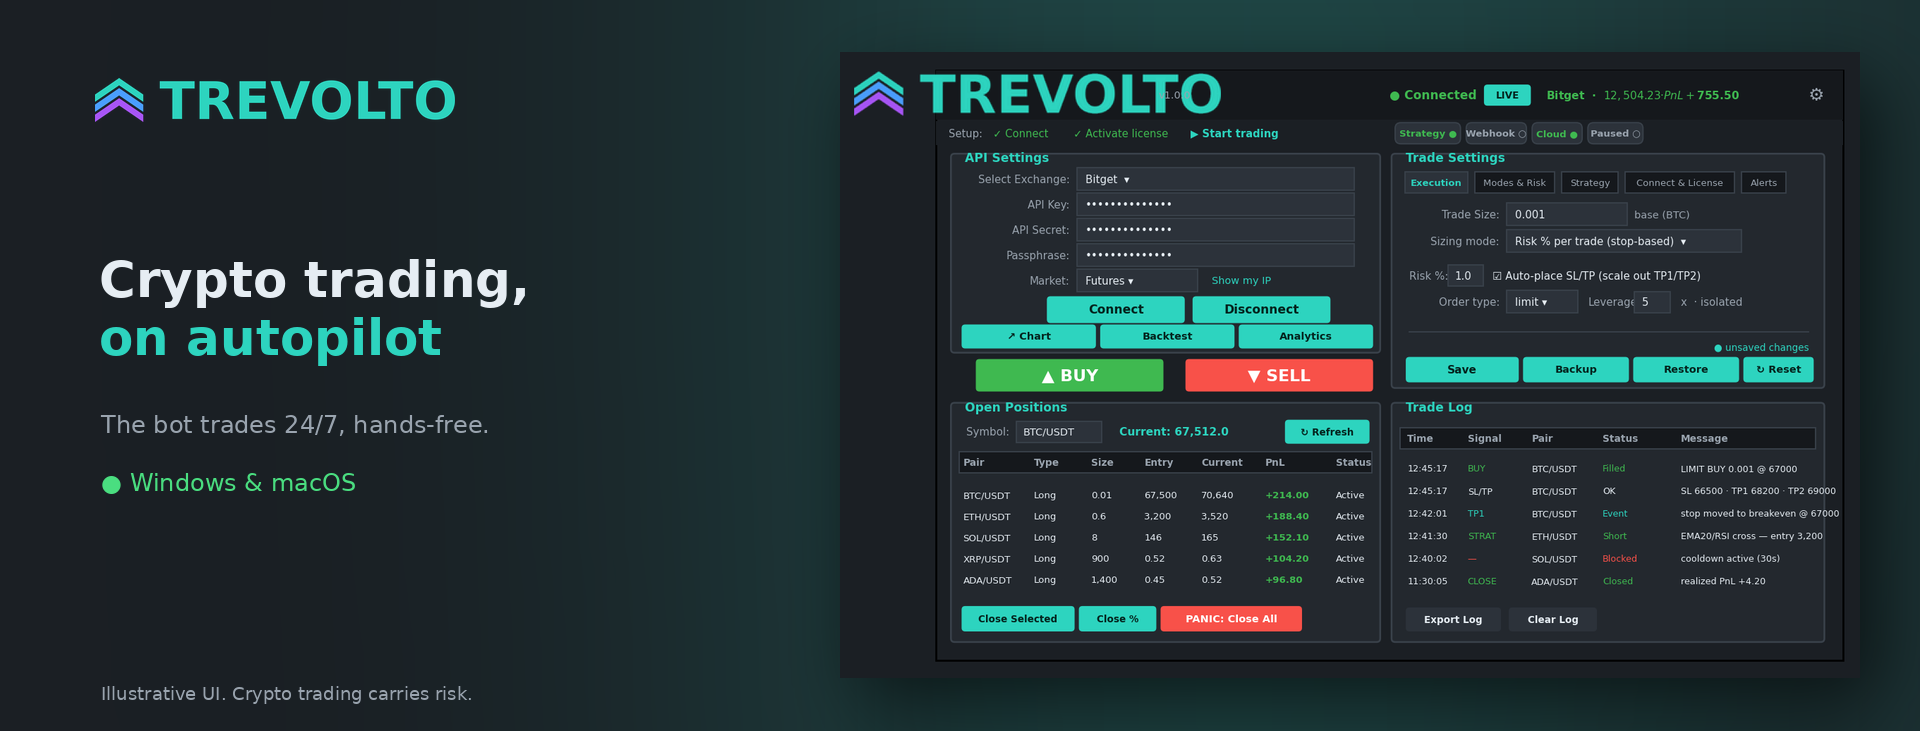
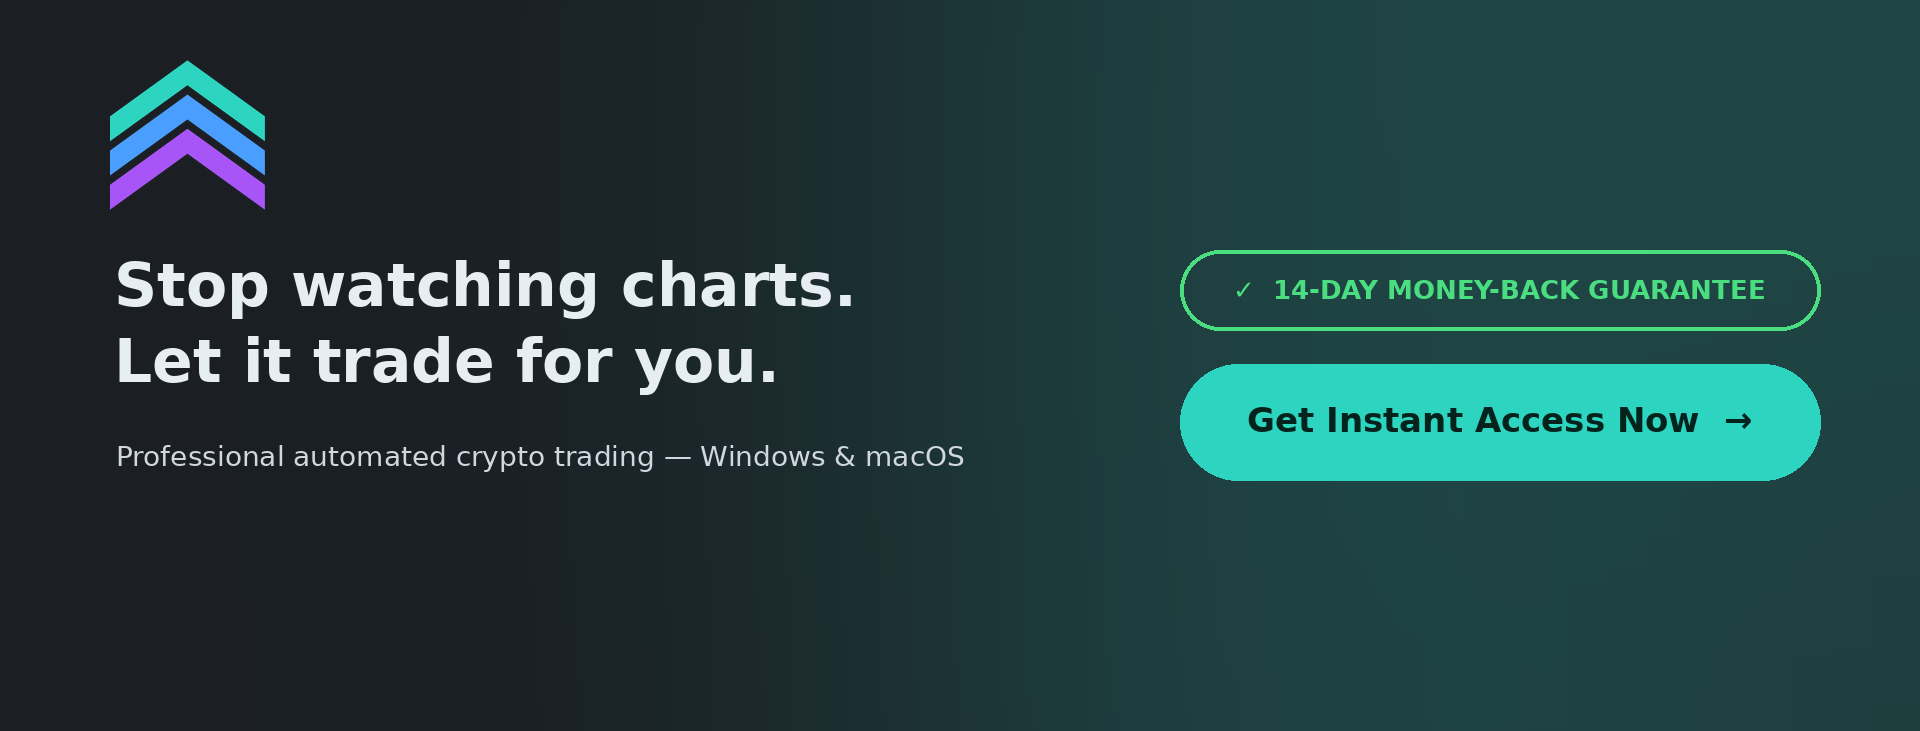
Trevolto: rework Facebook page cover to match WhatsApp design
fb_cover(): chevron icon + white headline (left), 14-day money-back badge +
'Get Instant Access Now' CTA (right), pro subline, content top-aligned, no
mockup/disclaimer. Profile-picture corner (bottom-left) kept clear.

diff --git a/trevolto/make_cover.py b/trevolto/make_cover.py
@@ -46,25 +46,31 @@ def cover(path, W=1920, H=1080):
     im.convert("RGB").save(path,quality=92); print("wrote",os.path.basename(path),im.size)
 
 def fb_cover(path, W=1920, H=731):
-    """Facebook cover (full-HD width at FB's 820:312 ratio): logo + headline +
-    a large, crisp app mockup. Key content kept clear of the bottom-left where
-    the Page profile picture overlaps."""
+    """Facebook page cover (full-HD width at FB's 820:312 ratio): chevron icon +
+    white headline (left) and money-back badge + CTA (right). No mockup, content
+    kept to the top so the Page profile picture (bottom-left) never collides."""
     im=Image.new("RGBA",(W,H),SMOKE+(255,))
-    im=Image.alpha_composite(im,glow((W,H),(int(W*0.64),int(H*0.46)),int(H*0.95),TEAL,60))
-    dev=Image.open(os.path.join(HERE,"gui_mockup.png")).convert("RGBA")
-    dw=1020; dev=dev.resize((dw,int(dev.height*dw/dev.width)),Image.LANCZOS)
-    dx=W-dw-60; dy=(H-dev.height)//2
-    im=Image.alpha_composite(im,rounded_shadow((W,H),[dx+18,dy+26,dx+dw+18,dy+dev.height+26],22,34,150))
-    im.alpha_composite(dev,(dx,dy))
+    im=Image.alpha_composite(im,glow((W,H),(int(W*0.70),int(H*0.46)),int(H*0.95),TEAL,55))
     d=ImageDraw.Draw(im)
-    wm=trim(Image.open(os.path.join(HERE,"trevolto_logo.png")).convert("RGBA"))
-    ww=360; wm=wm.resize((ww,int(wm.height*ww/wm.width)),Image.LANCZOS)
-    x=95; im.alpha_composite(wm,(x,78))
-    d.text((x+4,250),"Crypto trading,",font=font(50),fill=TXT)
-    d.text((x+4,308),"on autopilot",font=font(50),fill=TEAL)
-    d.text((x+6,410),"The bot trades 24/7, hands-free.",font=font(24,False),fill=DIM)
-    d.text((x+6,468),"● Windows & macOS",font=font(24,False),fill=LGREEN)
-    d.text((x+6,H-48),"Illustrative UI. Crypto trading carries risk.",font=font(18,False),fill=DIM)
+    # LEFT: icon + headline + subline
+    x=110
+    ic=trim(Image.open(os.path.join(HERE,"logo.png")).convert("RGBA"))
+    ih=150; ic=ic.resize((int(ic.width*ih/ic.height),ih),Image.LANCZOS)
+    im.alpha_composite(ic,(x,60)); d=ImageDraw.Draw(im)
+    d.text((x+4,250),"Stop watching charts.",font=font(60),fill=TXT)
+    d.text((x+4,326),"Let it trade for you.",font=font(60),fill=TXT)
+    d.text((x+6,440),"Professional automated crypto trading — Windows & macOS",
+           font=font(28,False),fill=(208,215,222))
+    # RIGHT: money-back badge + CTA
+    rx,rw=1180,640
+    byy,bh=250,80
+    d.rounded_rectangle([rx,byy,rx+rw,byy+bh],bh//2,outline=LGREEN,width=4)
+    t="✓  14-DAY MONEY-BACK GUARANTEE"; f=font(26)
+    d.text((rx+(rw-d.textlength(t,font=f))//2,byy+bh//2-16),t,font=f,fill=LGREEN)
+    cy,ch=byy+bh+34,116
+    d.rounded_rectangle([rx,cy,rx+rw,cy+ch],ch//2,fill=TEAL)
+    cta="Get Instant Access Now  →"; f=font(34)
+    d.text((rx+(rw-d.textlength(cta,font=f))//2,cy+ch//2-22),cta,font=f,fill="#04231d")
     im.convert("RGB").save(path,quality=94); print("wrote",os.path.basename(path),im.size)
 
 
